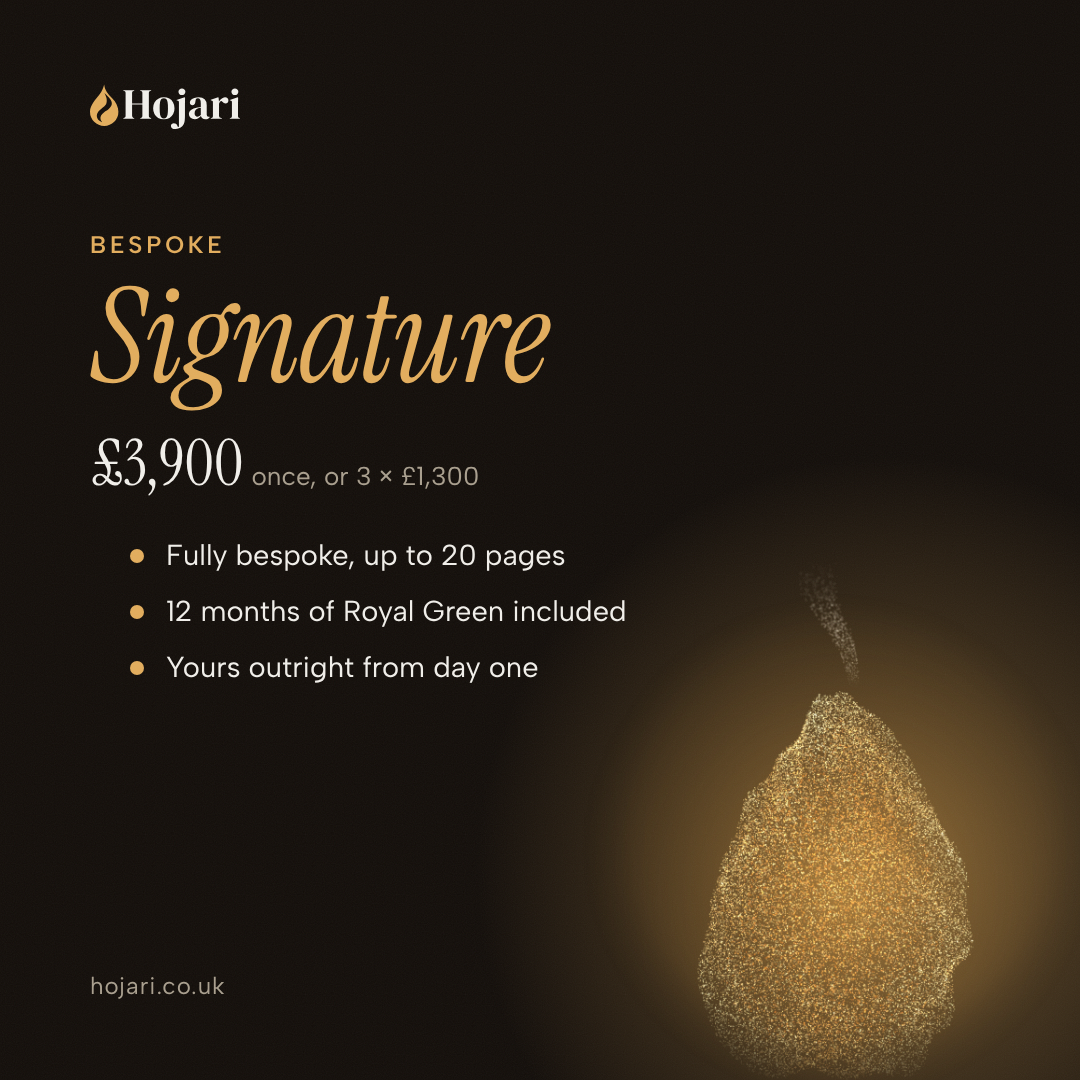
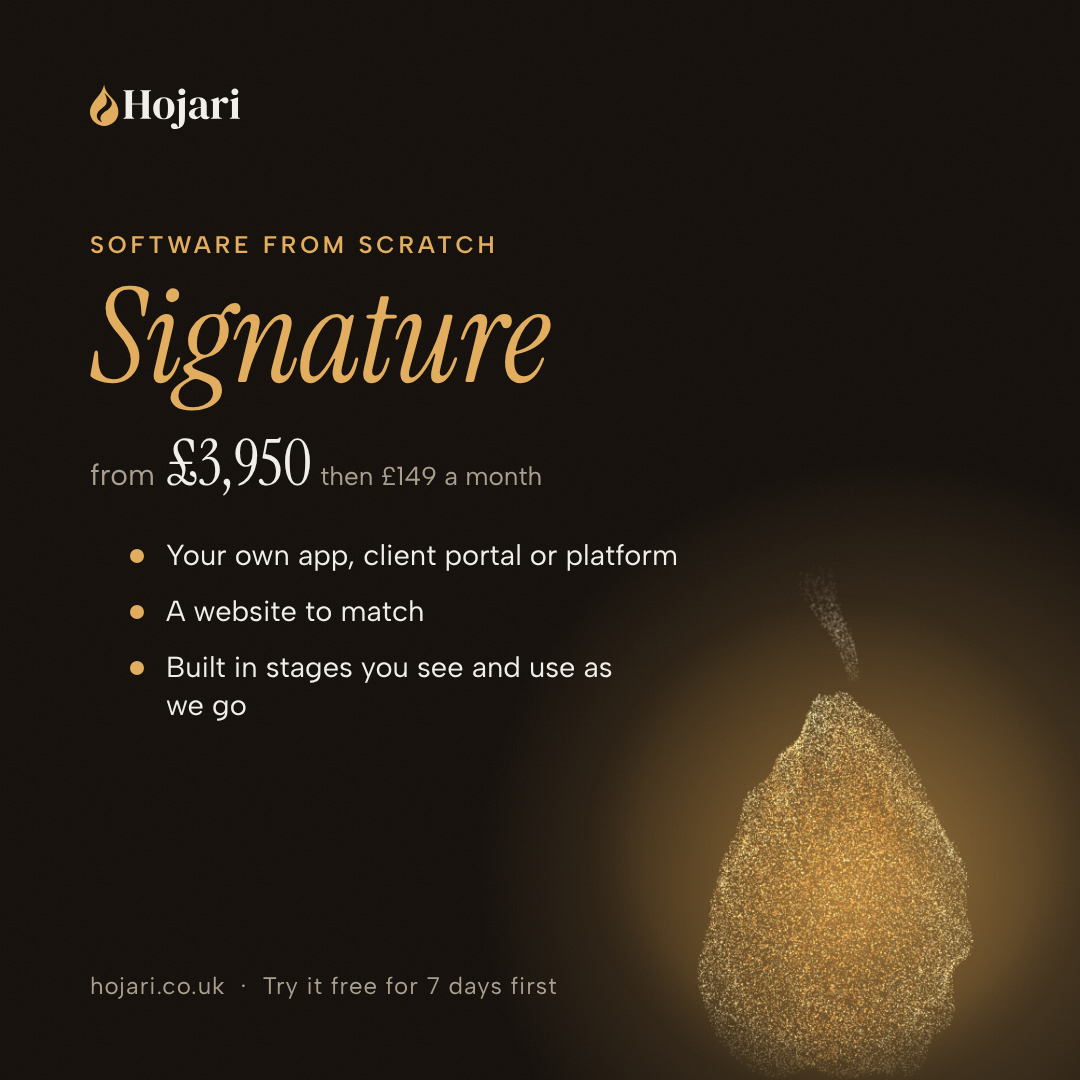
Brand graphics updated to the current offer: try it free for 7 days, new build and care prices, websites and software

diff --git a/brand/email-signature.html b/brand/email-signature.html
@@ -18,7 +18,7 @@
   </tr>
   <tr>
     <td colspan="2" style="padding-top:12px;">
-      <div style="font-size:11.5px;line-height:1.5;color:#7a6f60;">Free homepage mock-up in 48 hours. Don't love it? You owe nothing. <a href="https://hojari.co.uk/#contact" style="color:#B25E17;text-decoration:none;font-weight:bold;">Get yours &rarr;</a></div>
+      <div style="font-size:11.5px;line-height:1.5;color:#7a6f60;">Websites and software for businesses. Try it on yours free for 7 days before you pay. <a href="https://hojari.co.uk/#contact" style="color:#B25E17;text-decoration:none;font-weight:bold;">Try it free &rarr;</a></div>
     </td>
   </tr>
 </table>
